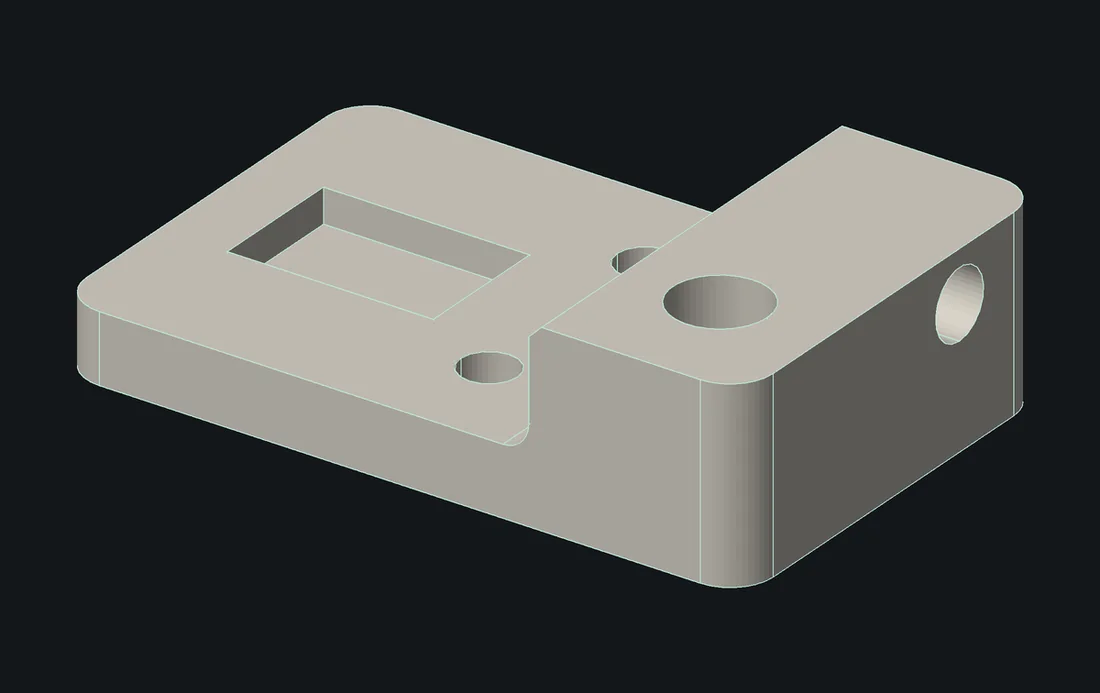
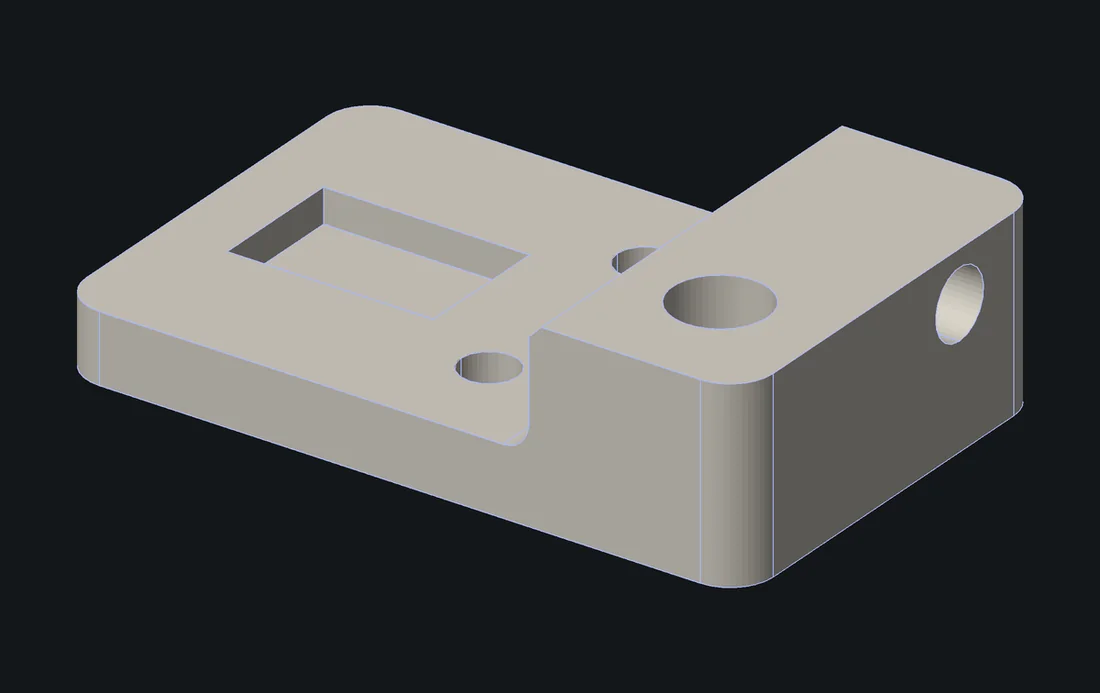
Site: periwinkle everywhere the accent is meant; green only for a check that passed
The switch, the live dots, the hero pip and the terminal's dot are the accent. The mark in the drawn app is the
brand's in both themes (it was all black in light). The mesh-to-CAD picture draws its edges in the accent.

Changed region(s): [[0.5564, 0.3636, 0.5873, 0.3939]]

diff --git a/site/css/desk.css b/site/css/desk.css
@@ -70,7 +70,7 @@
 .d-cap { position: absolute; top: 16px; height: 44px; border-radius: 22px; display: flex; align-items: center; gap: 10px; padding: 0 16px; font-size: 14px; white-space: nowrap; }
 .d-cap.tl { left: 20px; } .d-cap.tr { right: 20px; padding: 0 8px 0 16px; gap: 6px; }
 .d-cap b { font-weight: 600; letter-spacing: -.01em; } .d-cap .rev { color: var(--d-ink2); font-size: 12px; } .d-cap > .ic { color: var(--d-ink3); }
-.d-cap .mark { display: block; height: 18px; width: 18px; filter: brightness(calc(1 - var(--d-light))); opacity: calc(1 - .15 * var(--d-light)); }
+.d-cap .mark { display: block; height: 18px; width: 18px; } .d-cap .mark .f { fill: color-mix(in srgb, var(--d-ink) calc(var(--d-light) * 100%), #d8d3c8); } .d-cap .mark .o { fill: var(--d-accent); }
 .d-tag { font: 500 10px/1 var(--mono); letter-spacing: .1em; text-transform: uppercase; padding: 5px 7px; border-radius: 999px; background: var(--d-glass2); color: var(--d-ink2); }
 .d-cap .printer { display: flex; gap: 8px; align-items: center; color: var(--d-ink2); font-size: 12.5px; } .d-cap.tr > i { width: 1px; height: 18px; background: var(--d-line); margin: 0 6px 0 8px; }
 .d-cap .d-b { height: 32px; min-width: 32px; padding: 0 9px; border-radius: 16px; display: flex; align-items: center; gap: 8px; color: var(--d-ink2); }
@@ -92,7 +92,7 @@
 .d-pipe .run b i { background: var(--d-accent); box-shadow: 0 0 0 4px color-mix(in srgb, var(--d-accent) 22%, transparent); }
 .d-pipe span { font-size: 10.5px; letter-spacing: -.02em; color: var(--d-ink2); padding-left: 13px; white-space: nowrap; }
 .d-pipe .auto { grid-auto-flow: column; align-items: center; justify-content: space-between; } .d-pipe .auto b { font: 500 10px/1 var(--mono); letter-spacing: .12em; text-transform: uppercase; color: var(--d-ink3); padding-left: 13px; }
-.d-switch { width: 30px; height: 18px; border-radius: 9px; background: var(--d-pass); padding: 0 !important; position: relative; } .d-switch::after { content: ""; position: absolute; right: 2px; top: 2px; width: 14px; height: 14px; border-radius: 50%; background: #fff; }
+.d-switch { width: 30px; height: 18px; border-radius: 9px; background: var(--d-accent); padding: 0 !important; position: relative; } .d-switch::after { content: ""; position: absolute; right: 2px; top: 2px; width: 14px; height: 14px; border-radius: 50%; background: var(--d-send-ink); }
 
 .d-views { position: absolute; left: 20px; bottom: 20px; height: 40px; border-radius: 20px; padding: 0 5px 0 13px; display: flex; align-items: center; gap: 2px; color: var(--d-ink2); font-size: 12.5px; transition: opacity 300ms; }
 .d-views .ic { margin-right: 6px; } .d-views button { height: 30px; padding: 0 11px; border-radius: 15px; display: grid; place-items: center; }
@@ -117,8 +117,7 @@
 .d-program header em { margin-left: auto; font-style: normal; font-size: 11.5px; color: var(--d-ink3); }
 .d-program header .run { display: none; color: var(--d-accent); font-size: 11px; letter-spacing: .14em; text-transform: uppercase; align-items: center; gap: 9px; }
 .d-program.running header .run { display: flex; } .d-program.running header .rest { display: none; }
-.d-live { width: 6px; height: 6px; border-radius: 50%; background: var(--d-pass); box-shadow: 0 0 0 4px color-mix(in srgb, var(--d-pass) 18%, transparent); display: inline-block; flex: none; }
-.d-live.a { background: var(--d-accent); box-shadow: 0 0 0 4px color-mix(in srgb, var(--d-accent) 22%, transparent); }
+.d-live { width: 6px; height: 6px; border-radius: 50%; background: var(--d-accent); box-shadow: 0 0 0 4px color-mix(in srgb, var(--d-accent) 22%, transparent); display: inline-block; flex: none; }
 .d-program::before { content: ""; position: absolute; left: 45px; top: 50px; height: 408px; width: 1px; background: var(--d-line); }
 .d-pc { position: absolute; left: 44.5px; top: 46px; width: 2px; height: 0; border-radius: 1px; opacity: 0; background: linear-gradient(180deg, color-mix(in srgb, var(--d-accent) 25%, transparent), var(--d-accent) 70%);
   box-shadow: 0 0 10px color-mix(in srgb, var(--d-accent) 60%, transparent); transition: height 140ms var(--ease-out), opacity 300ms; }

diff --git a/site/css/site.css b/site/css/site.css
@@ -554,7 +554,7 @@ html { scroll-padding-top: calc(var(--nav-h) + 8px); }
 .term-body .c { color: #f4f3f1; } .term-body .c:not(:first-child) { margin-top: 14px; }
 .term-body .ps { color: #a9b8ff; }
 .term-body .k { color: #a9b8ff; }
-.term-body .ok { color: #86d9a8; }
+.term-body .ok { color: var(--pass); }
 .cut { color: #74736f; }
 .term figcaption { padding: 12px 20px 16px; border-top: 1px solid rgba(255,255,255,.06); font-size: 12.5px; color: #8b8a86; }
 .term figcaption code { color: #a9a8a5; }
@@ -940,7 +940,7 @@ h1, h2, h3 { font-weight: 600; }
 .hero-bg { background: linear-gradient(180deg, transparent 0%, color-mix(in srgb, var(--plate1) 55%, var(--plate)) 46%, color-mix(in srgb, var(--plate2) 60%, var(--plate)) 66%, var(--plate) 100%); }
 .hero-glow { top: 64%; width: min(1500px, 150vw); aspect-ratio: 2.4 / 1; background: radial-gradient(closest-side, rgba(var(--key), .16), rgba(var(--key), .05) 55%, transparent); filter: none; opacity: 1; }
 .hero .eyebrow { font-family: var(--sans); font-size: 13px; letter-spacing: 0; text-transform: none; font-weight: 500; border-color: var(--edge); background: var(--glass); -webkit-backdrop-filter: blur(20px); backdrop-filter: blur(20px); padding: 7px 14px 7px 12px; }
-.hero .eyebrow .pip { border-radius: 50%; background: var(--pass); box-shadow: 0 0 0 4px color-mix(in srgb, var(--pass) 18%, transparent); }
+.hero .eyebrow .pip { border-radius: 50%; background: var(--datum); box-shadow: 0 0 0 4px color-mix(in srgb, var(--datum) 22%, transparent); }
 .hero .eyebrow:hover { border-color: color-mix(in srgb, var(--datum) 45%, var(--edge)); }
 .hero .eyebrow .launch b { font-weight: 600; }
 .hero-title { font-weight: 600; letter-spacing: -.055em; }
@@ -1008,7 +1008,7 @@ h1, h2, h3 { font-weight: 600; }
 .moves-view { background: radial-gradient(ellipse 70% 55% at 50% 56%, rgba(var(--key), .12), transparent 70%), linear-gradient(180deg, var(--plate) 0%, var(--plate1) 45%, var(--plate2) 66%, var(--plate) 100%); box-shadow: 0 0 0 1px var(--edge), var(--lift); }
 .term { border-color: var(--edge); border-radius: var(--r-lg); }
 .term-bar { background: none; border-bottom: 0; height: 44px; padding: 0 20px; letter-spacing: .1em; text-transform: uppercase; font-size: 10.5px; }
-.term-bar .mono::before { content: ""; display: inline-block; width: 6px; height: 6px; border-radius: 50%; background: #86d9a8; box-shadow: 0 0 0 4px rgba(134,217,168,.18); margin-right: 12px; vertical-align: 1px; }
+.term-bar .mono::before { content: ""; display: inline-block; width: 6px; height: 6px; border-radius: 50%; background: var(--datum); box-shadow: 0 0 0 4px color-mix(in srgb, var(--datum) 22%, transparent); margin-right: 12px; vertical-align: 1px; }
 .term-body { padding-top: 6px; }
 .term figcaption { border-top: 0; }
 .wipe { border-radius: var(--r-xl); border-color: var(--edge); background: var(--glass); }

diff --git a/site/index.html b/site/index.html
@@ -100,7 +100,7 @@
       <p class="rv">Every picture is a real build: an original design written as parametric code, built by the CAD kernel and rendered from its own geometry.</p>
     </div>
     <div class="gx">
-      <figure class="gx-t w7 rv"><img src="assets/shots/planetary.webp" width="1200" height="900" alt="A planetary gear stage: a steel sun gear, three teal planet gears and a graphite ring gear, meshed." loading="lazy" decoding="async"><figcaption><span class="k">Mechanism</span><b>Planetary gear stage</b><span>Six parts. Sun 12, planets 18, ring 48 teeth: 1 : 5.</span></figcaption></figure>
+      <figure class="gx-t w7 rv"><img src="assets/shots/planetary.webp" width="1200" height="900" alt="A planetary gear stage: a steel sun gear, three periwinkle planet gears and a graphite ring gear, meshed." loading="lazy" decoding="async"><figcaption><span class="k">Mechanism</span><b>Planetary gear stage</b><span>Six parts. Sun 12, planets 18, ring 48 teeth: 1 : 5.</span></figcaption></figure>
       <figure class="gx-t w5 rv"><img src="assets/shots/ratchet.webp" width="1200" height="900" alt="A ratchet wrench pulled apart: a red handle, a toothed wheel with a square drive, a pawl and a cover." loading="lazy" decoding="async"><figcaption><span class="k">Assembly</span><b>Ratchet wrench</b><span>Handle, wheel, pawl and cover, with an exploded view.</span></figcaption></figure>
       <figure class="gx-t w6 rv"><img src="assets/shots/vase.webp" width="960" height="960" alt="A copper vase with spiral flutes twisting up its body." loading="lazy" decoding="async"><figcaption><span class="k">Organic</span><b>Spiral vase</b><span>A twisted, fluted loft.</span></figcaption></figure>
       <figure class="gx-t w6 rv"><img src="assets/shots/shade.webp" width="1000" height="838" alt="A domed lampshade perforated with rows of holes that grow towards the rim." loading="lazy" decoding="async"><figcaption><span class="k">Pattern</span><b>Perforated lampshade</b><span>A graded hole pattern on a dome.</span></figcaption></figure>

diff --git a/site/js/desk.js b/site/js/desk.js
@@ -34,7 +34,7 @@ const P = {
   spark: "M12 3l1.8 5.2L19 10l-5.2 1.8L12 17l-1.8-5.2L5 10l5.2-1.8zM18.5 15.5l.8 2.2 2.2.8-2.2.8-.8 2.2-.8-2.2-2.2-.8 2.2-.8z",
 };
 const I = (n, s = 18, w = 1.6, cls = "") => `<svg class="ic ${cls}" width="${s}" height="${s}" viewBox="0 0 24 24" fill="none" stroke="currentColor" stroke-width="${w}" stroke-linecap="round" stroke-linejoin="round" aria-hidden="true"><path d="${P[n]}"/></svg>`;
-const MARK = `<svg class="mark" viewBox="8 8 48 48" aria-hidden="true"><path d="M26 8H52V20H26Z M12 22H24V28H44V40H24V56H12Z" fill="#d8d3c8"/><path d="M12 8H24V20H12Z" fill="#b9e8d7"/></svg>`;
+const MARK = `<svg class="mark" viewBox="8 8 48 48" aria-hidden="true"><path class="f" d="M26 8H52V20H26Z M12 22H24V28H44V40H24V56H12Z" fill="#d8d3c8"/><path class="o" d="M12 8H24V20H12Z" fill="#a9b8ff"/></svg>`;
 const TOOLS = ["cursor", "sketch", "pin", "scissors", "scan", "boxes", "history", "layers", "camera", "expand", "ruler"];
 const VIEWS = { Iso: [-27, 33], Front: [0, 3], Side: [-90, 3], Top: [0, 89.5], Under: [-27, -55] };
 

diff --git a/scripts/media/showcase/recon_shots.py b/scripts/media/showcase/recon_shots.py
@@ -50,7 +50,7 @@ def main():
     a = render.render_png({"mesh": [{"positions": b64(V), "indices": b64(F), "feature": "m"}], "edges": b64(tri_edges.astype(np.float32))},
                           [{"id": "m", "label": ""}], camera=(az, el), size=size, overlay=False)
     (S / "out" / f"recon-{name}-mesh.png").write_bytes(a)
-    render.INK = (185, 232, 215)
+    render.INK = (169, 184, 255)
     render.PALETTE = [(216, 211, 200)]
     c = render.render_png({"mesh": [{"positions": b64(np.asarray(P, np.float32)), "indices": b64(np.asarray(T, np.uint32)), "feature": "m"}],
                            "edges": b64(np.asarray(E, np.float32))},
